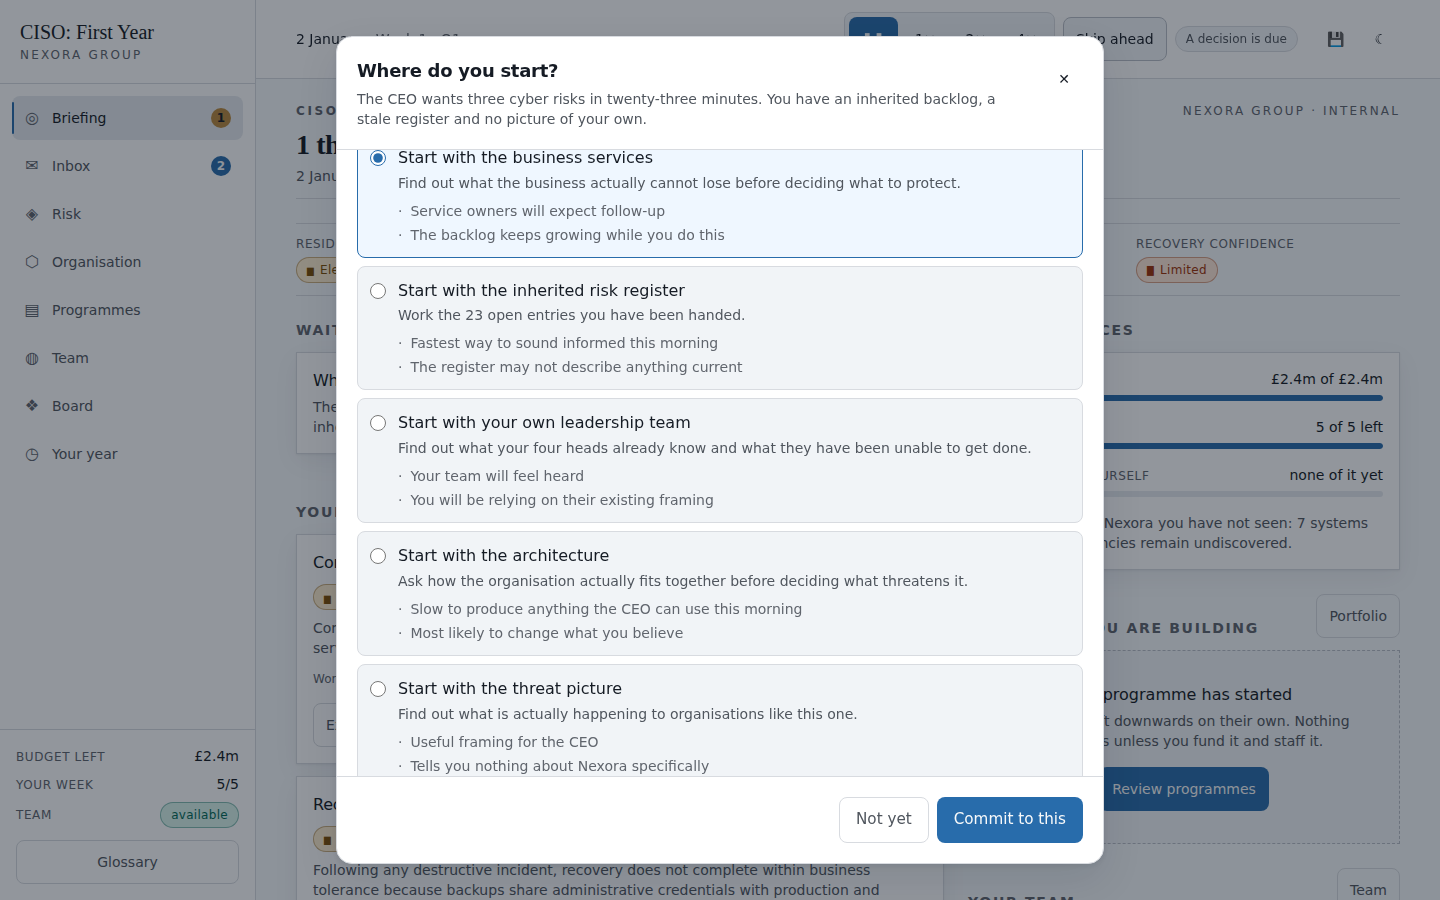
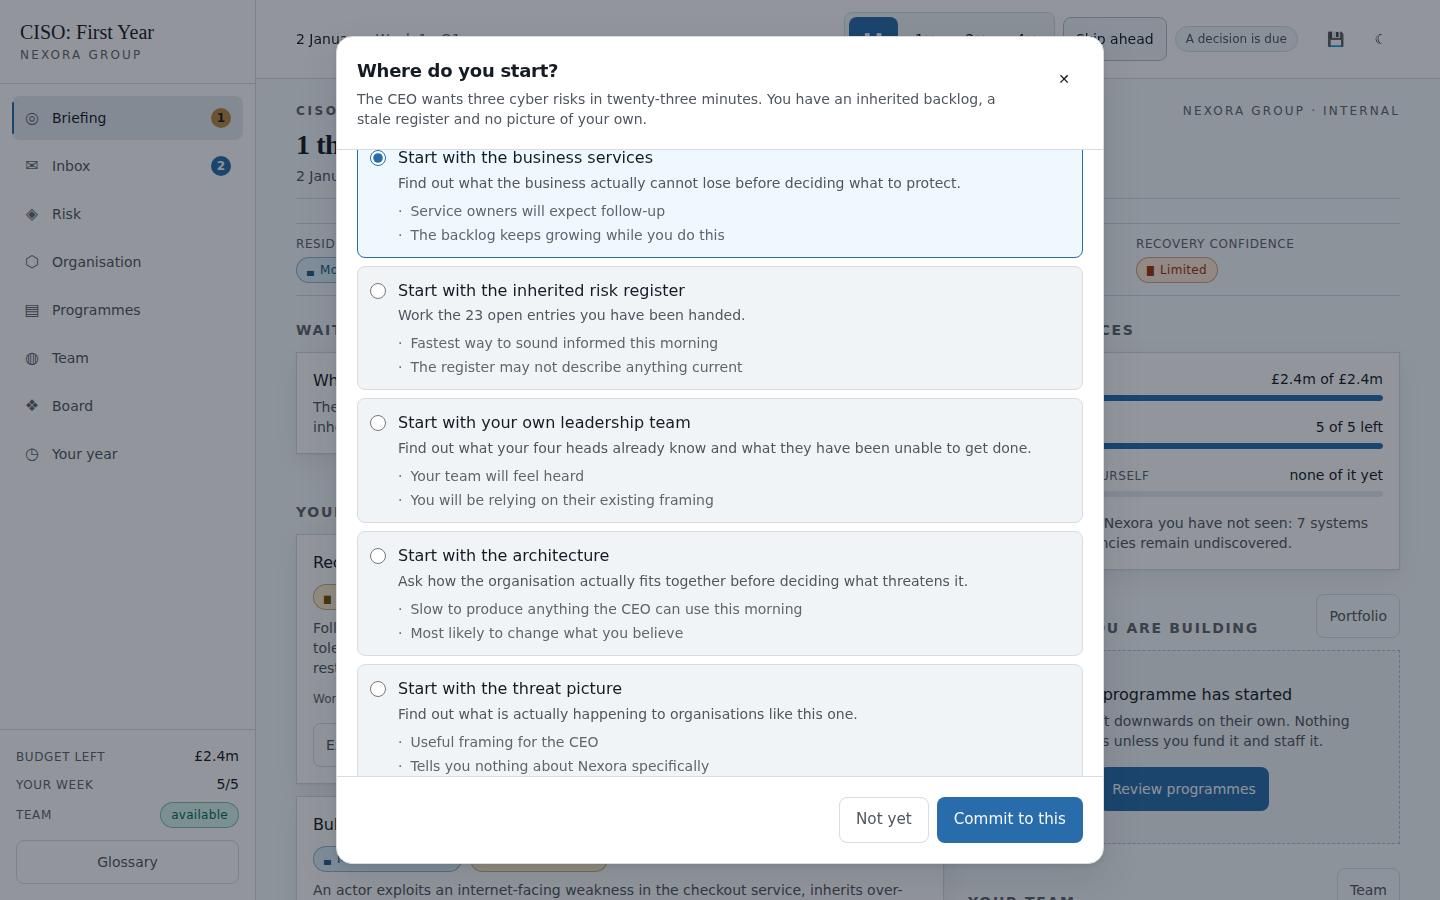
Let a control that holds turn an attacker away, and tell the player when it does
An actor kept trying a step until it passed, so a stronger control delayed a
breach and almost never prevented one: 70% of supplier-route campaigns became
incidents with or without the supplier programme. A step that resists is now
abandoned with a daily chance of 0.2 x resistance squared, and campaigns start
a third more often so an idle year stays where it was (0.63 / 1.26 / 1.73
incidents against 0.72 / 1.25 / 1.74). Building now shows: the engaged ladder
reads 0.45 / 0.75 / 1.15 against 0.40 / 0.85 / 1.68, and over 150 seeds
second-half incidents read identity 0.56, segmentation 0.65, cloud 0.67,
third-party 0.69 against 0.75 idle.

Where it held is recorded; the SOC reports a hold it had seen and the annual
review counts the attacks that gave up, naming only mapped systems.

Also: the incident panel no longer sits above the review of a finished year,
and a budget cut agreed in a quiet autumn is not called a quiet year after a
later breach. Guide pictures regenerated on seed guide-3.

Claude-Session: https://claude.ai/code/session_01QQ5khq6U7faXndHvyfrAxx

Changed region(s): [[0.2188, 0.8711, 0.625, 0.9956], [0.2188, 0.6844, 0.25, 0.7778], [0.1875, 0.28, 0.25, 0.3111]]

diff --git a/tests/engine/holding.test.ts b/tests/engine/holding.test.ts
@@ -1,0 +1,83 @@
+import { describe, expect, it } from 'vitest'
+import { newGame, runDays } from '@/game/engine/orchestrator'
+import { buildAnnualReview } from '@/game/debrief/review'
+import { testIndex } from './helpers'
+import type { GameState } from '@/game/types'
+
+/**
+ * A step that holds is abandoned. Before, an actor kept trying a step until it
+ * passed and gave up only after 70+ days without progress, so a stronger
+ * control delayed a breach and almost never prevented one: on the supplier
+ * routes 70% of campaigns became incidents whether or not the supplier
+ * programme had halved the entry step's pass chance.
+ */
+const index = testIndex()
+const PATH = 'path-logistics-supplier'
+
+function arrange(seed: string, strength: number): GameState {
+  const state = newGame(index, { seed })
+  const control = state.controls.controls['ctl-3p-access']!
+  control.coverage = strength
+  control.configurationQuality = strength
+  control.operationalEffectiveness = strength
+  control.exceptionRate = strength > 0 ? 0 : 1
+  const path = index.attackPath.get(PATH)!
+  const actorId = Object.keys(path.actorAffinity)[0]!
+  state.threats.campaigns.push({
+    id: 'camp-arranged', actorId, pathId: PATH, stage: 'interest', stepIndex: 0, stepProgress: 0,
+    startedDay: 0, lastAdvanceDay: 0, detected: true, disrupted: false, evidenceRaisedIds: [],
+  })
+  return state
+}
+
+const heldAtEntry = (state: GameState) => state.threats.campaigns.find((c) => c.id === 'camp-arranged')?.heldAt === 'node-sup-logistics'
+
+describe('a step that holds', () => {
+  it('turns an attacker back at a strong control, and rarely at a weak one', () => {
+    const seeds = Array.from({ length: 10 }, (_, i) => `hold-${i}`)
+    const strong = seeds.filter((seed) => {
+      const state = arrange(seed, 1)
+      runDays(state, index, 120)
+      return heldAtEntry(state)
+    }).length
+    const weak = seeds.filter((seed) => {
+      const state = arrange(seed, 0)
+      runDays(state, index, 120)
+      return heldAtEntry(state)
+    }).length
+    expect(strong, 'a strong control rarely held').toBeGreaterThanOrEqual(7)
+    expect(weak, 'a control that is not there held').toBeLessThanOrEqual(1)
+  })
+
+  it('is reported by the SOC when it had seen the attempt, and named only once mapped', () => {
+    let reported = 0
+    for (const seed of ['told-1', 'told-2', 'told-3', 'told-4', 'told-5']) {
+      const state = arrange(seed, 1)
+      runDays(state, index, 120)
+      if (!heldAtEntry(state)) continue
+      const gaveUp = state.threats.campaigns.find((c) => c.id === 'camp-arranged')!.disruptedDay
+      const message = state.inbox.messages.find((m) => m.subject === 'The attempt did not get through' && m.day === gaveUp)
+      expect(message, 'a hold the SOC had seen went unreported').toBeDefined()
+      const name = index.node.get('node-sup-logistics')!.name
+      const mapped = state.organisation.nodes['node-sup-logistics']!.discovered
+      // Discovery only grows, so a system unmapped now was unmapped then.
+      if (!mapped) expect(message!.body).not.toContain(name)
+      expect(message!.body.includes(name) || message!.body.includes('an internal system')).toBe(true)
+      reported += 1
+    }
+    expect(reported).toBeGreaterThan(0)
+  })
+
+  it('shows at the close, naming only the places the player has mapped', () => {
+    const state = newGame(index, { seed: 'held-close' })
+    const base = { stage: 'interest' as const, stepIndex: 0, stepProgress: 0, startedDay: 10, lastAdvanceDay: 10, detected: false, disrupted: true, evidenceRaisedIds: [] }
+    state.threats.campaigns.push({ ...base, id: 'c1', actorId: 'x', pathId: PATH, heldAt: 'node-sup-logistics' })
+    state.threats.campaigns.push({ ...base, id: 'c2', actorId: 'x', pathId: 'path-ci-supply', heldAt: 'node-ci-pipeline' })
+    state.organisation.nodes['node-sup-logistics']!.discovered = true
+    state.organisation.nodes['node-ci-pipeline']!.discovered = false
+    const evidence = buildAnnualReview(state, index).dimensions.find((d) => d.id === 'resilience')!.evidence
+    const line = evidence.find((e) => e.includes('gave up at a control that held'))
+    expect(line).toBe(`2 attacks gave up at a control that held, at ${index.node.get('node-sup-logistics')!.name} and one place you had not mapped`)
+    expect(line).not.toContain(index.node.get('node-ci-pipeline')!.name)
+  })
+})

diff --git a/src/game/debrief/review.ts b/src/game/debrief/review.ts
@@ -556,6 +556,22 @@ export function buildAnnualReview(state: GameState, index: ContentIndex): Annual
       // The dimension counted a production restore as an exercise; this line
       // did not, and said "never exercised" under a restore that came back in
       // three and a half hours. Found by the second observed playtest.
+      // Attacks that gave up because a step held. Without this a control that
+      // worked left no trace at all: the year it prevented read the same as a
+      // year nobody tried. Only places the player has mapped are named.
+      const held = state.threats.campaigns.filter((c) => c.heldAt)
+      if (held.length > 0) {
+        const places = [...new Set(held.map((c) => c.heldAt!))]
+        const named = places.filter((id) => state.organisation.nodes[id]?.discovered).map((id) => index.node.get(id)?.name ?? id)
+        const unmapped = places.length - named.length
+        const where = [
+          ...named,
+          ...(unmapped > 0 ? [unmapped === 1 ? 'one place you had not mapped' : `${unmapped} places you had not mapped`] : []),
+        ]
+        lines.push(
+          `${held.length} attack${held.length === 1 ? '' : 's'} gave up at a control that held, at ${where.length > 1 ? `${where.slice(0, -1).join(', ')} and ${where.at(-1)}` : where[0]}`,
+        )
+      }
       const exerciseCount = exercises.length + (restoreTaken ? 1 : 0)
       lines.push(
         exerciseCount > 0
@@ -828,7 +844,14 @@ export function buildAnnualReview(state: GameState, index: ContentIndex): Annual
   // and what did you decide to carry into next year?
   const nextYear = state.flags['next-year.budget']
   if (nextYear === 'cut') {
-    narrative.push('Nothing happened this year, so you agreed to start next year with a fifth less. Whether the quiet was capability or fortune is the question the cut assumes an answer to.')
+    // The cut is only offered while no incident has happened, so one at the
+    // close came afterwards: "nothing happened this year" beside "tested the
+    // organisation on day 347" was the review contradicting itself.
+    narrative.push(
+      incidents.length > 0
+        ? 'In the autumn, with nothing yet having happened, you agreed to start next year with a fifth less. The year did not stay quiet.'
+        : 'Nothing happened this year, so you agreed to start next year with a fifth less. Whether the quiet was capability or fortune is the question the cut assumes an answer to.',
+    )
   } else if (nextYear === 'held') {
     narrative.push('When finance read a quiet year as a case for less, you argued it was capability rather than fortune, and kept the line. Next year will test the argument.')
   } else if (nextYear === 'trimmed') {

diff --git a/src/game/threats/engine.ts b/src/game/threats/engine.ts
@@ -44,6 +44,9 @@ function stageForStep(stepIndex: number, stepCount: number): CampaignStage {
 }
 
 /** How attractive an organisation looks to an actor right now. */
+/** Daily chance of abandoning a step, per unit of squared resistance. */
+const HOLD_RATE = 0.2
+
 export function pathAttractiveness(
   state: GameState,
   index: ContentIndex,
@@ -101,7 +104,7 @@ export function tickThreats(state: GameState, index: ContentIndex, rng: Rng): Th
       .filter((entry) => entry.weight > 0.02)
     if (candidates.length === 0) continue
 
-    const startChance = clamp01(actor.pressure * def.persistence * 0.006 * difficultyFactor)
+    const startChance = clamp01(actor.pressure * def.persistence * 0.008 * difficultyFactor)
     if (!rng.chance(startChance)) continue
 
     const chosen = rng.weighted(candidates, (entry) => entry.weight)
@@ -172,6 +175,19 @@ export function tickThreats(state: GameState, index: ContentIndex, rng: Rng): Th
     }
 
     if (!advanced) {
+      // A step that holds is abandoned. An actor used to keep trying until it
+      // passed, giving up only after 70+ days without progress, so a stronger
+      // control delayed a breach and almost never prevented one: on the
+      // supplier routes 70% of campaigns became incidents whether or not the
+      // supplier programme had halved the entry step's pass chance. Squared,
+      // so an unhardened step barely changes and a well-controlled one bites.
+      if (rng.chance(clamp01(HOLD_RATE * assessment.resistance * assessment.resistance))) {
+        campaign.disrupted = true
+        campaign.disruptedDay = state.currentDay
+        campaign.heldAt = step.nodeId
+        result.disrupted.push(campaign.id)
+        continue
+      }
       // Actors give up on stubborn paths eventually.
       if (state.currentDay - campaign.lastAdvanceDay > 70 + actorDef.persistence * 60) {
         campaign.disrupted = true

diff --git a/src/game/engine/tick.ts b/src/game/engine/tick.ts
@@ -207,7 +207,21 @@ export function tickDay(state: GameState, index: ContentIndex): TickResult {
   }
   for (const campaignId of threatResult.disrupted) {
     const campaign = state.threats.campaigns.find((c) => c.id === campaignId)
-    if (campaign?.detected) {
+    // An actor that gave up against a control was not pushed out by anyone,
+    // and a control that holds should not pass unremarked: the player saw the
+    // activity start, so they hear that it stopped and why.
+    if (campaign?.detected && campaign.heldAt) {
+      const node = state.organisation.nodes[campaign.heldAt]?.discovered ? index.node.get(campaign.heldAt) : undefined
+      pushMessage(state, {
+        from: 'Sentinel SOC',
+        subject: 'The attempt did not get through',
+        body: `The activity we raised around ${node?.name ?? 'an internal system'} has stopped. Nobody pushed them out: whatever they were trying there did not get through, and they appear to have given up on it.`,
+        type: 'threat',
+        priority: 'notable',
+        relatedNodeIds: node ? [campaign.heldAt] : [],
+      })
+      highlights.push('Suspicious activity has stopped.')
+    } else if (campaign?.detected) {
       highlights.push('Suspicious activity has stopped after intervention.')
     }
   }

diff --git a/tests/engine/messages-honest.test.ts b/tests/engine/messages-honest.test.ts
@@ -102,9 +102,12 @@ describe('incidents', () => {
       for (const incident of Object.values(state.incidents.incidents)) {
         const family = index.incidentFamily.get(incident.familyId)!
         // Phase notes reach the player as inbox messages under the family's name.
+        // Two incidents of one family can run at once, so a date window read
+        // the other one's count: take this incident's own closing message, the
+        // one posted the day it closed.
         const text = state.inbox.messages
-          .filter((m) => m.type === 'incident' && m.subject.startsWith(`${family.name}:`))
-          .filter((m) => m.day >= incident.startedDay && m.day <= (incident.resolvedDay ?? 364))
+          .filter((m) => m.type === 'incident' && m.subject === `${family.name}: closed`)
+          .filter((m) => m.day === incident.phaseEnteredDay)
           .map((m) => m.body)
           .join(' ')
         // The count is in the closing message, which an incident still running

diff --git a/tests/engine/review-agrees.test.ts b/tests/engine/review-agrees.test.ts
@@ -252,3 +252,20 @@ describe('what the close says about two incidents', () => {
     }
   })
 })
+
+describe('the budget cut agreed in a quiet autumn', () => {
+  it('does not call the year quiet when an incident came afterwards', () => {
+    const state = newGame(index, { seed: 'quiet-cut' })
+    state.flags['next-year.budget'] = 'cut'
+    expect(buildAnnualReview(state, index).narrative.join(' ')).toContain('Nothing happened this year')
+    const family = index.content.incidentFamilies[0]!
+    state.incidents.incidents['inc-late'] = {
+      ...({} as GameState['incidents']['incidents'][string]),
+      id: 'inc-late', familyId: family.id, startedDay: 347, consequence: 0.1, phase: 'recovery', phaseEnteredDay: 358,
+      affectedServiceIds: [], decisionsTaken: [],
+    }
+    const story = buildAnnualReview(state, index).narrative.join(' ')
+    expect(story).not.toContain('Nothing happened this year')
+    expect(story).toContain('The year did not stay quiet')
+  })
+})

diff --git a/src/components/game/IncidentCommand.tsx b/src/components/game/IncidentCommand.tsx
@@ -20,7 +20,10 @@ export function IncidentCommand() {
   const index = useGameStore((store) => store.index)
   const setUi = useGameStore((store) => store.setUi)
   const setScreen = useGameStore((store) => store.setScreen)
-  if (!state) return null
+  // Once the year is over nothing can be decided, and the panel sat above the
+  // annual review offering a response log. The review says the incident was
+  // still running when the year was written up.
+  if (!state || state.finished) return null
 
   const incident = incidentCommand(state, index)
   if (!incident) return null

diff --git a/tests/e2e/guide-shots.spec.ts b/tests/e2e/guide-shots.spec.ts
@@ -49,7 +49,7 @@ async function dismissNote(page: Page): Promise<boolean> {
 
 // A seed whose year has something on every board paper and more than one
 // incident, so the pictures show the screens doing their job rather than empty.
-const SEED = 'guide-2'
+const SEED = 'guide-3'
 
 test.describe('player guide', () => {
   test.skip(({ browserName }) => browserName !== 'chromium', 'chromium only')

diff --git a/src/game/types/state.ts b/src/game/types/state.ts
@@ -125,6 +125,8 @@ export interface ThreatCampaignState {
   detectedStage?: CampaignStage
   disrupted: boolean
   disruptedDay?: number
+  /** The node where the actor gave up because the step held, if that is why it ended. */
+  heldAt?: string
   incidentId?: string
   evidenceRaisedIds: string[]
 }

diff --git a/docs/FINDINGS.md b/docs/FINDINGS.md
@@ -233,6 +233,45 @@ fault.
   when it found nothing new. Presentation only; test in
   `tests/engine/messages-honest.test.ts`.
 
+- **A control could delay a breach but almost never prevent one.** An actor
+  kept trying a step until it passed and gave up only after 70+ days without
+  progress, so on the supplier routes about 70% of campaigns became incidents
+  whether or not the third-party programme had halved the entry step's pass
+  chance (0.43 incidents a year through those routes idle, 0.455 with it, 200
+  seeds). That is why identity and third-party moved no totals. At the owner's
+  choice, a step that resists is now abandoned: each day an attempt fails the
+  actor gives up with chance 0.2 × resistance², so an unhardened step (0.1 to
+  0.17) barely changes and a well-controlled one (0.35 and up) holds. Holding
+  also made the game easier for everyone — the engaged ladder fell to 0.38 /
+  0.50 / 1.00 — so campaigns start a third more often (0.006 to 0.008), which
+  puts an idle year back where it was: 0.63 / 1.26 / 1.73 incidents against
+  0.72 / 1.25 / 1.74, 150 seeds each. What building earns is now visible: the
+  engaged ladder reads 0.45 / 0.75 / 1.15 over 40 seeds (0.40 / 0.85 / 1.68
+  before), so on high pressure a player who builds sees a third fewer
+  incidents where before they saw almost none. Over 150 seeds second-half
+  incidents read identity 0.56, segmentation 0.65, cloud 0.67, third-party
+  0.69 against 0.75 idle; third-party cuts its own routes from 0.36 to 0.28.
+  A hold used to leave no trace, so a control that worked read the same as a
+  year nobody tried. The campaign now records where it held; if the SOC had
+  seen the attempt it reports that it did not get through (0.22 times a year
+  idle, 0.60 with identity), and the annual review counts the attacks that gave
+  up, naming only systems the player has mapped. Tests in
+  `tests/engine/holding.test.ts`, which fail with holding switched off. Soak
+  1,000 clean. One incident test read messages by family and date and, with two
+  incidents of one family running at once, counted the other one's decisions;
+  it reads the incident's own closing message now.
+
+  Re-photographing the guide from the new year found two more. An incident
+  still running when the year ended kept its "Incident active" panel above the
+  annual review, offering a response log for decisions that could no longer be
+  taken; it is hidden once the year is over, and the review already says the
+  incident was still running. And a year that agreed a budget cut in a quiet
+  autumn and was then breached on day 347 read "Nothing happened this year"
+  beside "tested the organisation on day 347"; the cut is only offered while
+  nothing has happened, so a later incident now reads "The year did not stay
+  quiet". Tested, mutation-checked. The guide's seed is now guide-3, whose
+  prepared year still has an incident with the identity programme working.
+
 - **Two programmes' controls did not count on the steps they claim to fix.**
   Asked to make third-party and cloud pay off, the attack paths showed both
   controls on real steps but not against the techniques there: cloud posture

diff --git a/CLAUDE.md b/CLAUDE.md
@@ -100,18 +100,17 @@ risk bands, executive patience and the noise dial has been fixed and moved to
   days, max 75 (was 73, max 89). Whether the back half now *feels* like the
   year building is the playtest question in `docs/PLAYTEST.md`.
 
-- **Preventive programmes slow attackers; they rarely stop them.** On the
-  supplier routes about 70% of campaigns become incidents whether or not the
-  third-party programme runs (0.43 incidents a year through those routes idle,
-  0.455 with it, 200 seeds), although it cuts the entry steps' daily pass
-  chance from 0.41 to 0.20. A campaign waits 70+ days before giving up, so a
-  harder step delays a breach rather than preventing it, and actors that are
-  slowed on one route choose another. Cloud does pay off (second-half
-  incidents 0.69 against 0.86 idle over 150 seeds) and so does detection;
-  identity and third-party do not move totals. Changing it means changing how
-  the threat engine lets a step hold, for every programme and mode, which is
-  a decision for the owner, not a tuning pass. `scripts/efficacy.ts` measures
-  it.
+- **Third-party is still the weakest programme.** Steps now hold (see
+  `docs/FINDINGS.md`), and over 150 seeds every building programme except
+  detection and recovery now cuts second-half incidents: identity 0.56,
+  segmentation 0.65, cloud 0.67, third-party 0.69, against 0.75 idle.
+  Third-party's effect on the routes it targets is larger — 0.36 to 0.28
+  second-half incidents through the supplier routes, 200 seeds — but attackers
+  it turns away try elsewhere, so the total moves about one standard error.
+  Detection no longer shows in totals (its effect was also near noise before)
+  and recovery acts on consequence (worst 0.33 to 0.24), not on count. Whether
+  a smaller, honest effect reads as worth £520k is the playtest question in
+  `docs/PLAYTEST.md`.
 
 - **Objectives missed does not read as difficulty, and should not be read
   that way.** The ladder's business row is confounded by how much the player

diff --git a/docs/ARCHITECTURE.md b/docs/ARCHITECTURE.md
@@ -107,7 +107,12 @@ Outputs are 0..1 internally and become bands at the presentation boundary
 Three actors evaluate a small set of precomputed candidate attack paths rather
 than searching the graph. Each day an active campaign attempts its current step;
 controls change the odds, monitoring decides whether anyone notices, and a
-capable SOC that sees activity can push the actor back out. Reaching the end of a
+capable SOC that sees activity can push the actor back out. A step that resists
+is also abandoned: each day an attempt fails, the actor may give up with a
+chance that grows with the square of the step's resistance, so an unhardened
+step barely changes and a well-controlled one holds. Where it held is recorded
+on the campaign, the SOC says so if it had seen the attempt, and the annual
+review counts the attacks that gave up. Reaching the end of a
 path creates an incident, whose severity is computed from the controls that were
 in place at the time — not from a script.
 
